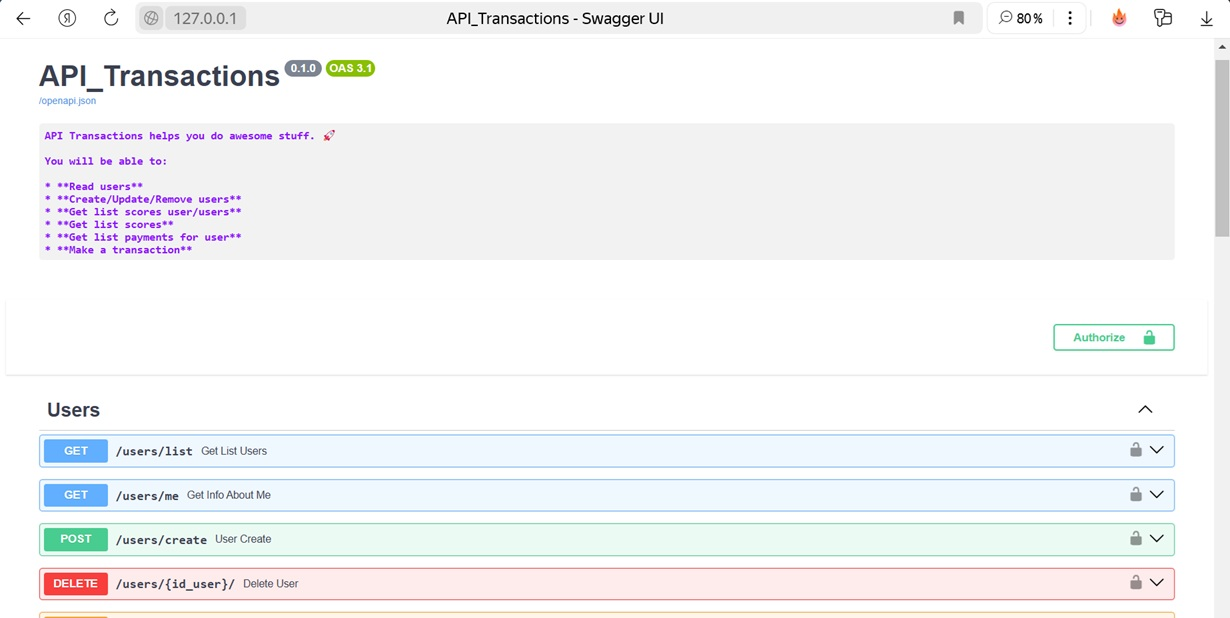
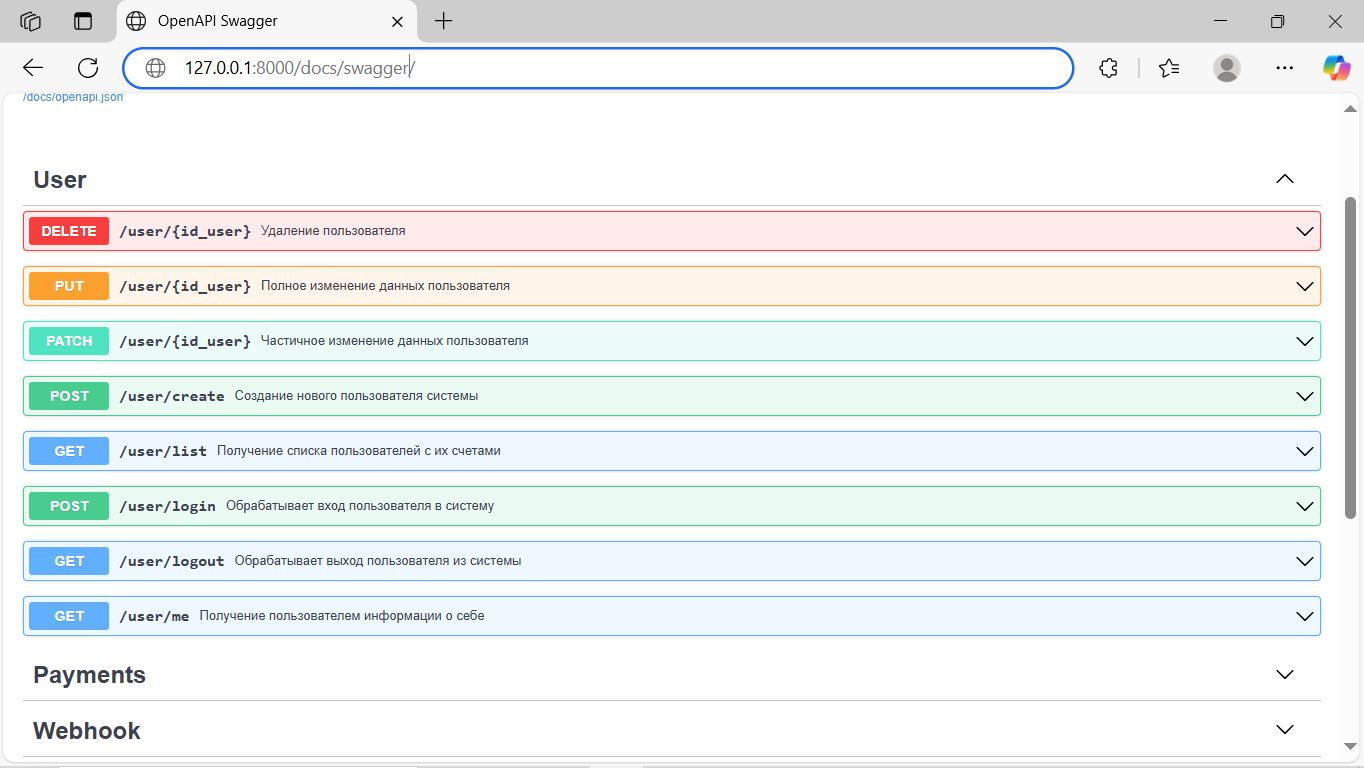
edit README.md

Changed region(s): [[0.0, 0.0, 1.0, 1.0], [0.9886, 0.9531, 1.0, 0.9838]]

diff --git a/README.md b/README.md
@@ -1,21 +1,22 @@
 # API для обработки транзакций
-### Реализация бэкенд сервиса для обработки транзакция 
+### Реализация бэкенд сервиса для обработки webhook от сторонней платежной системы 
 
 Используемые технологии:
-- Фреймворк: FastAPI
+- Фреймворк: Sanic
 - База данных: PostgreSQL
 - ORM: SQLAlchemy
-- Брокер сообщений: RabbitMQ
 - Аутентификация: JWT
 - Управление миграциями: Alembic
 - Тестирование: Pytest
-- Web-сервер: Nginx
+
 
 Реализованный функционал:
 - авторизация и аутентификация пользователей с использование JWT
+- создание/редактирование пользователей администратором 
 - получение администратором списка пользователей со списком счетов с балансами
 - получение пользователем списка своих счетов
 - получение пользователем списка своих платежей
+- получение пользователем/администратором данных о себе
 - обработка платежа
 
 ## Правила использования
@@ -36,47 +37,47 @@
 docker compose up -d
 ```
 
+Для запуска приложения из командной строки (без docker compose)
+
+```
+sanic src.main:app --host=0.0.0.0 --port=8000 --fast
+```
+
 При первом запуске проекта необходимо выполнить миграции базы данных с помощью Alembic используя команду:
 
 ```
 docker compose exec app alembic upgrade head
 ```
-а также создать тестовых пользователей
-```
-docker compose exec app docker/create_users.sh
-```
-Утилита создаёт администратора с email: admin@mycomp.com и паролем: 1qaz!QAZ,
-а также пользователя с email: user1@mycomp.com и паролем: 2wsx@WSX
+Миграция создаёт двух пользователей:
 
+- администратора с email: admin@corp.com и паролем: 1qaz!QAZ
+- пользователь с email: elene@corp.com и паролем: 2wsx@WSX (реквизиты счера: account_id=1, user_id=2)
 
 Стартовая страница проекта [http://127.0.0.1:80](http://127.0.0.1:80).
 ![Стартовая страница проекта](readme_img/start.jpg)
 
-Страница с интерактивной документацией [http://127.0.0.1:80/docs](http://127.0.0.1:80/docs).
+Страница с интерактивной документацией [http://127.0.0.1:8000/docs/swagger](http://127.0.0.1:8000/docs/swagger).
 ![страница c документацией проекта](readme_img/start_api.jpg)
 
-Перед началом работы необходимо авторизоваться, для чего использутся меню Authorize.
+Перед началом работы необходимо авторизоваться.
 
 ![Создание пользователя](readme_img/Authorize.jpg)
-
-в качестве username используется email пользователя.
 
 Затем можно начать работу с транзакциями. 
 
 Для каждой задачи создан отдельный раздел:
 - Users - управление пользователями
 - Payments - получение информации о счетах и платежах
-- main - создание/проведение платежа, JWT авторизация
-- Webhooks - документирование webhook сервиса
+- Webhooks - обработка платежа
 
 ![Группы](readme_img/groups.jpg)
 
-Для проверки работы сервиса с помощью эндпоинта `create_payment` создаём тестовую транзакцию
+Для проверки работы сервиса с помощью эндпоинта `/payments/create_payment` создаём тестовую транзакцию
 указав user_id пользователя, account_id счета пользователя, amount (сумму) транзакции. 
 
 ![Группы](readme_img/test_tranzaction.jpg)
 
-С помощью эндпоинта `transaction` запускаем сформированную транзакцию, скопировав в тело запроса 
+С помощью эндпоинта `/webhook` запускаем сформированную транзакцию, скопировав в тело запроса 
 результат предыдущего запроса 
 
 ![Группы](readme_img/start_tranzaction.jpg)
